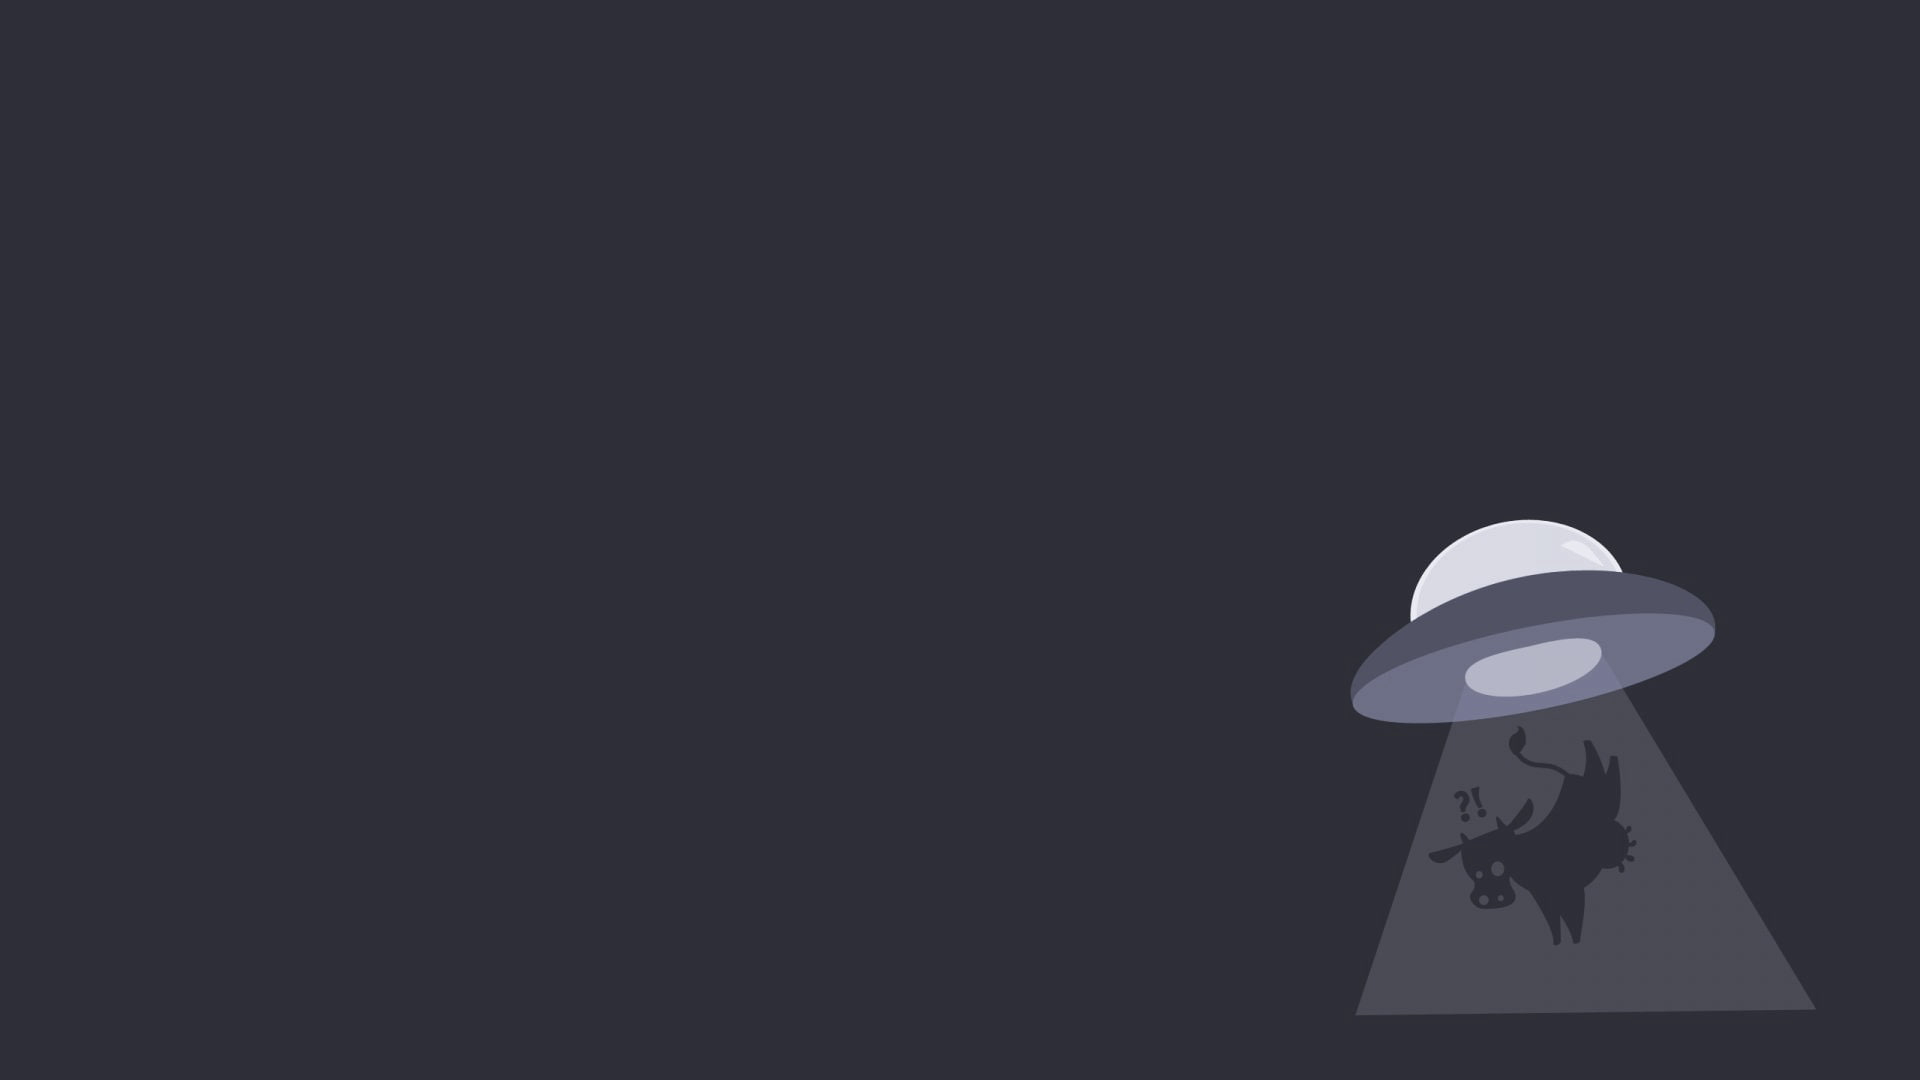
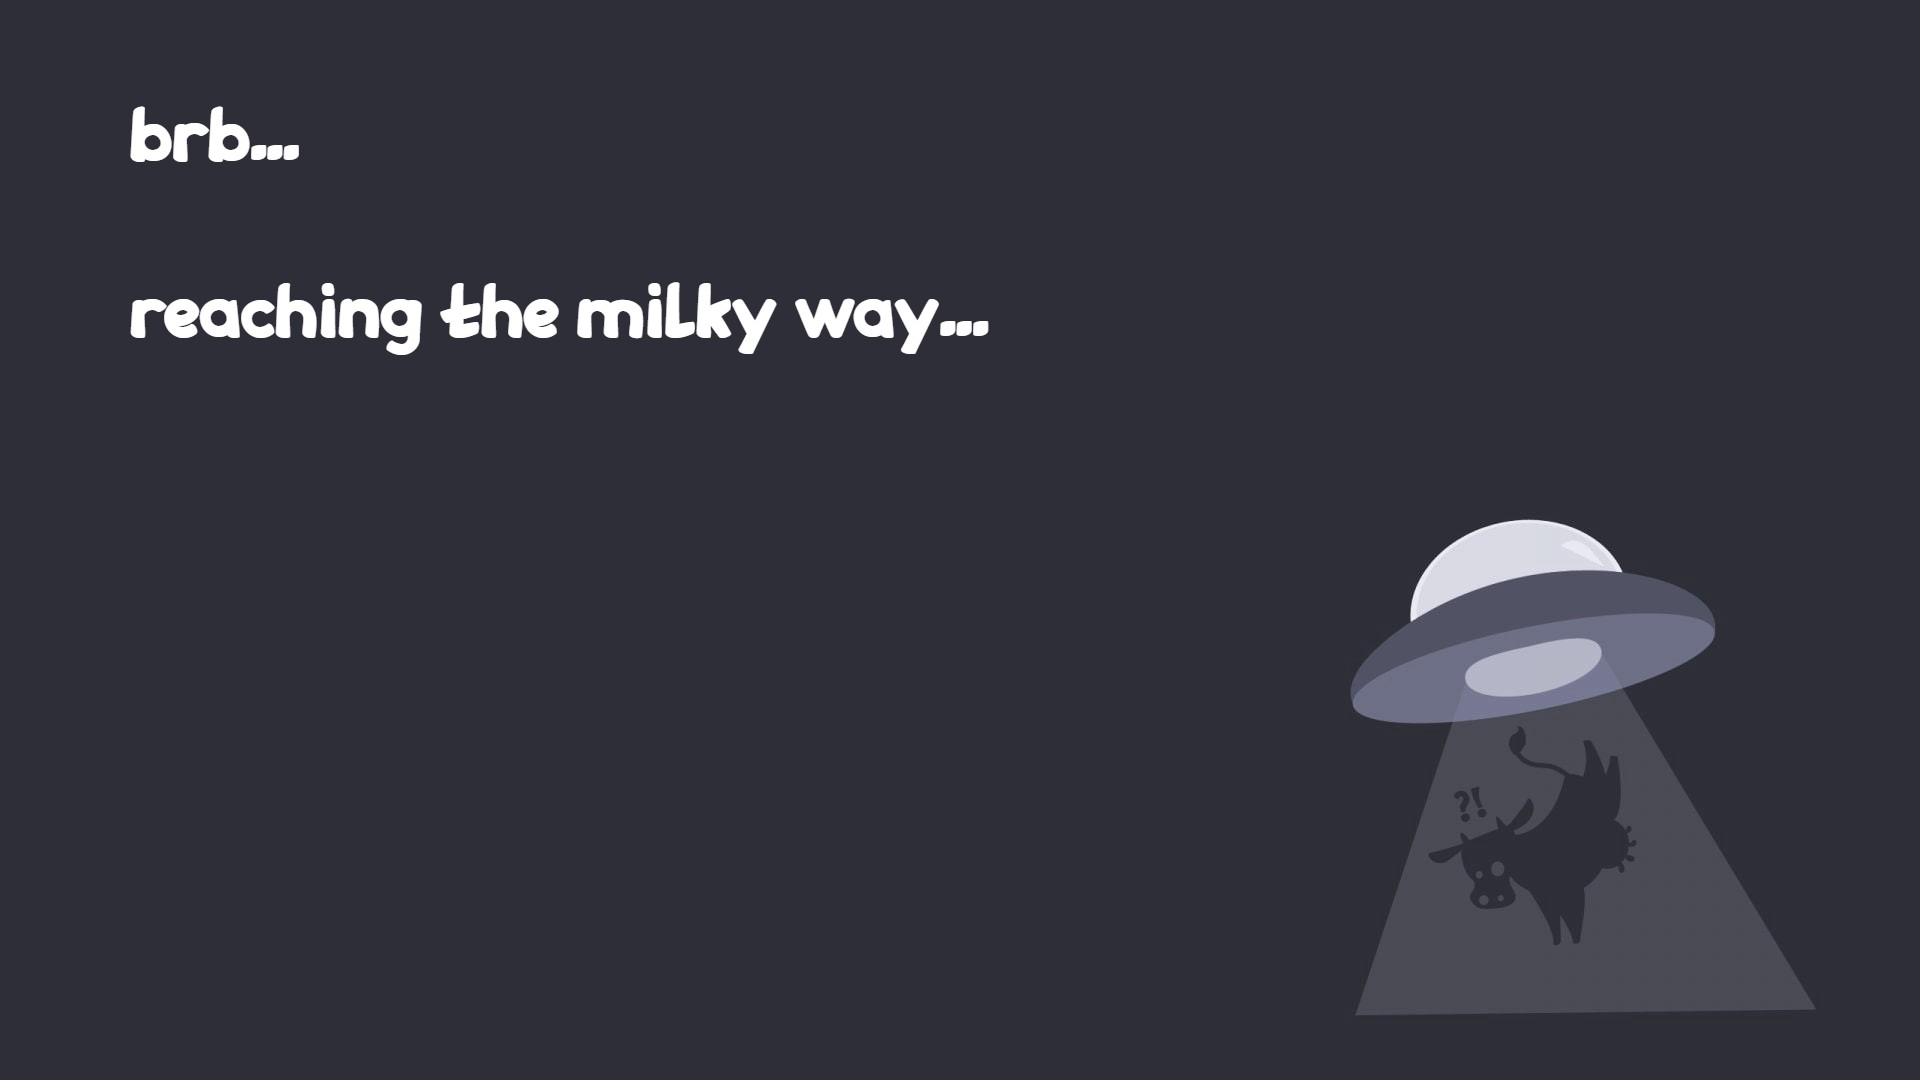
fixed homepage rendering bug in the homeroutes and added css for homepage.handlebars

Changed region(s): [[0.0625, 0.2444, 0.5312, 0.3361], [0.0625, 0.0917, 0.1562, 0.1528]]

diff --git a/controllers/homeRoutes.js b/controllers/homeRoutes.js
@@ -2,11 +2,11 @@ const router = require('express').Router();
 const { User, Expense, Income } = require('../models');
 const withAuth = require('../utils/auth');
 
-router.get('/', withAuth, async (req, res) => {
+router.get('/', async (req, res) => {
   try {
     if (req.session.logged_in) {
       const userData = await User.findByPk(req.session.user_id, {
-        attributes: { exclude: ['password'] },
+        attributes: { exclude: ['password'] }
       });
       const user = userData.get({ plain: true });
       res.render('homepage', {

diff --git a/public/css/style.css b/public/css/style.css
@@ -9,6 +9,10 @@ h1 {
   font-size: 85px;
 }
 
+h2 {
+  text-shadow: 2px 0 #f8c31d;
+}
+
 main {
   display: flex;
   flex-wrap: wrap;
@@ -17,10 +21,19 @@ main {
   padding: 2%;
 }
 
+.welcome {
+  font-size: 20px;
+  text-align: justify;
+  padding: 2%;
+
+}
+
 .cow {
   background-color: white;
   opacity: 90%;
   border-radius: 2%;
+  padding: 2%;
+  margin: 2%;
 }
 
 button {
